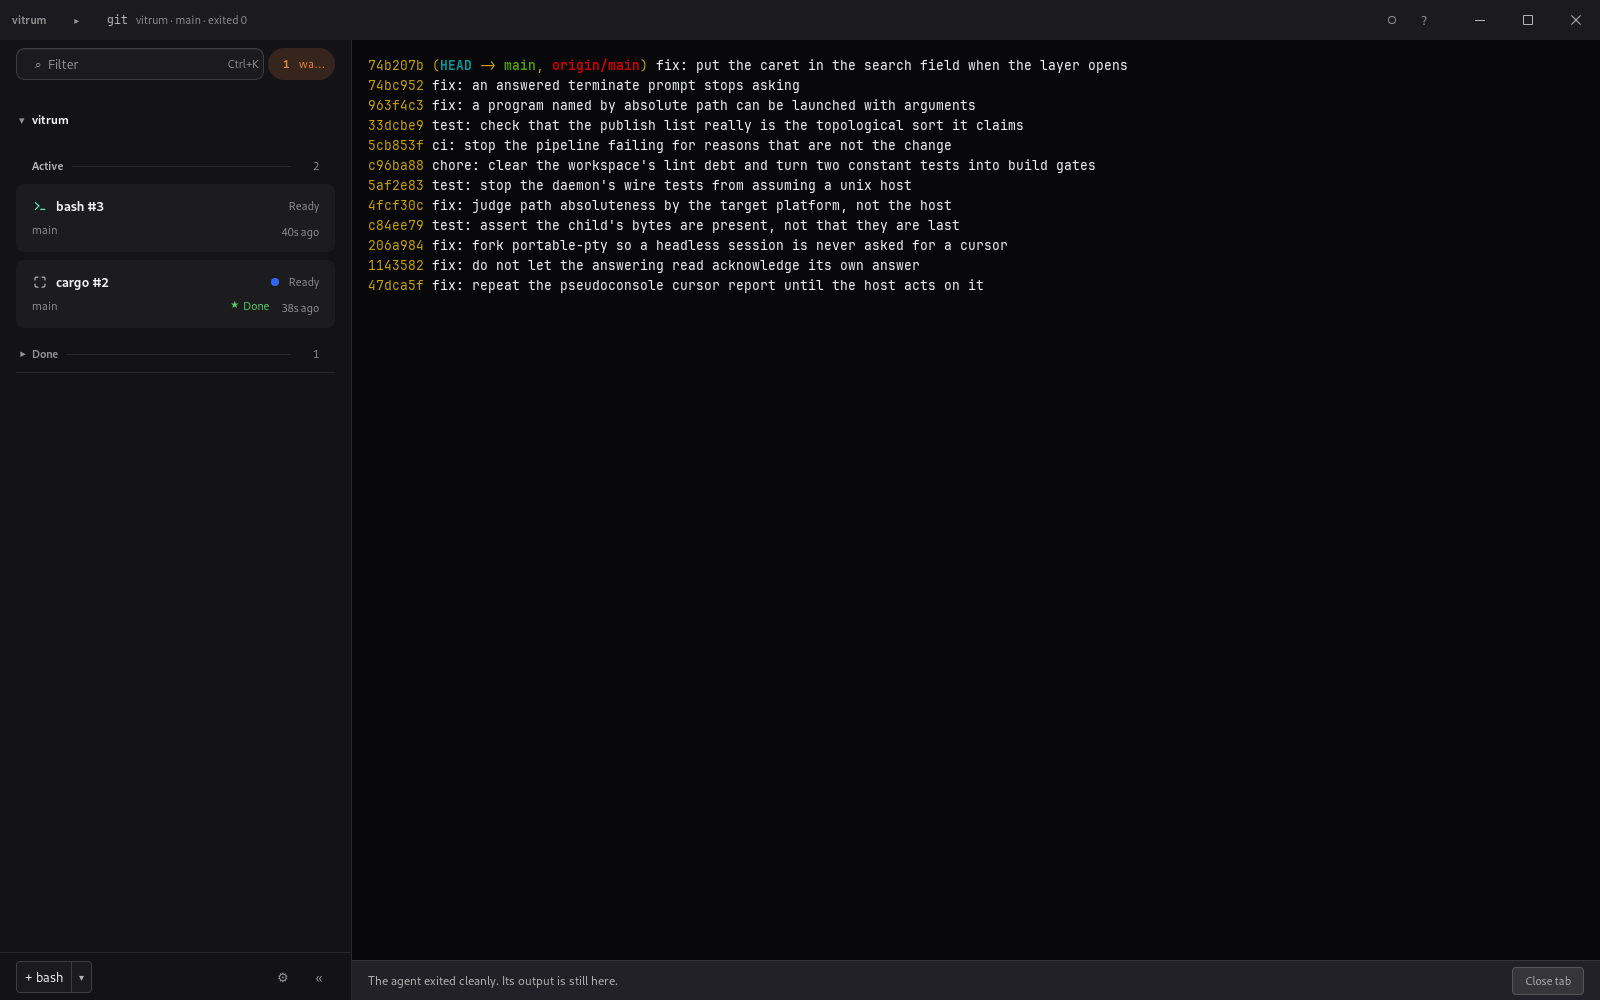
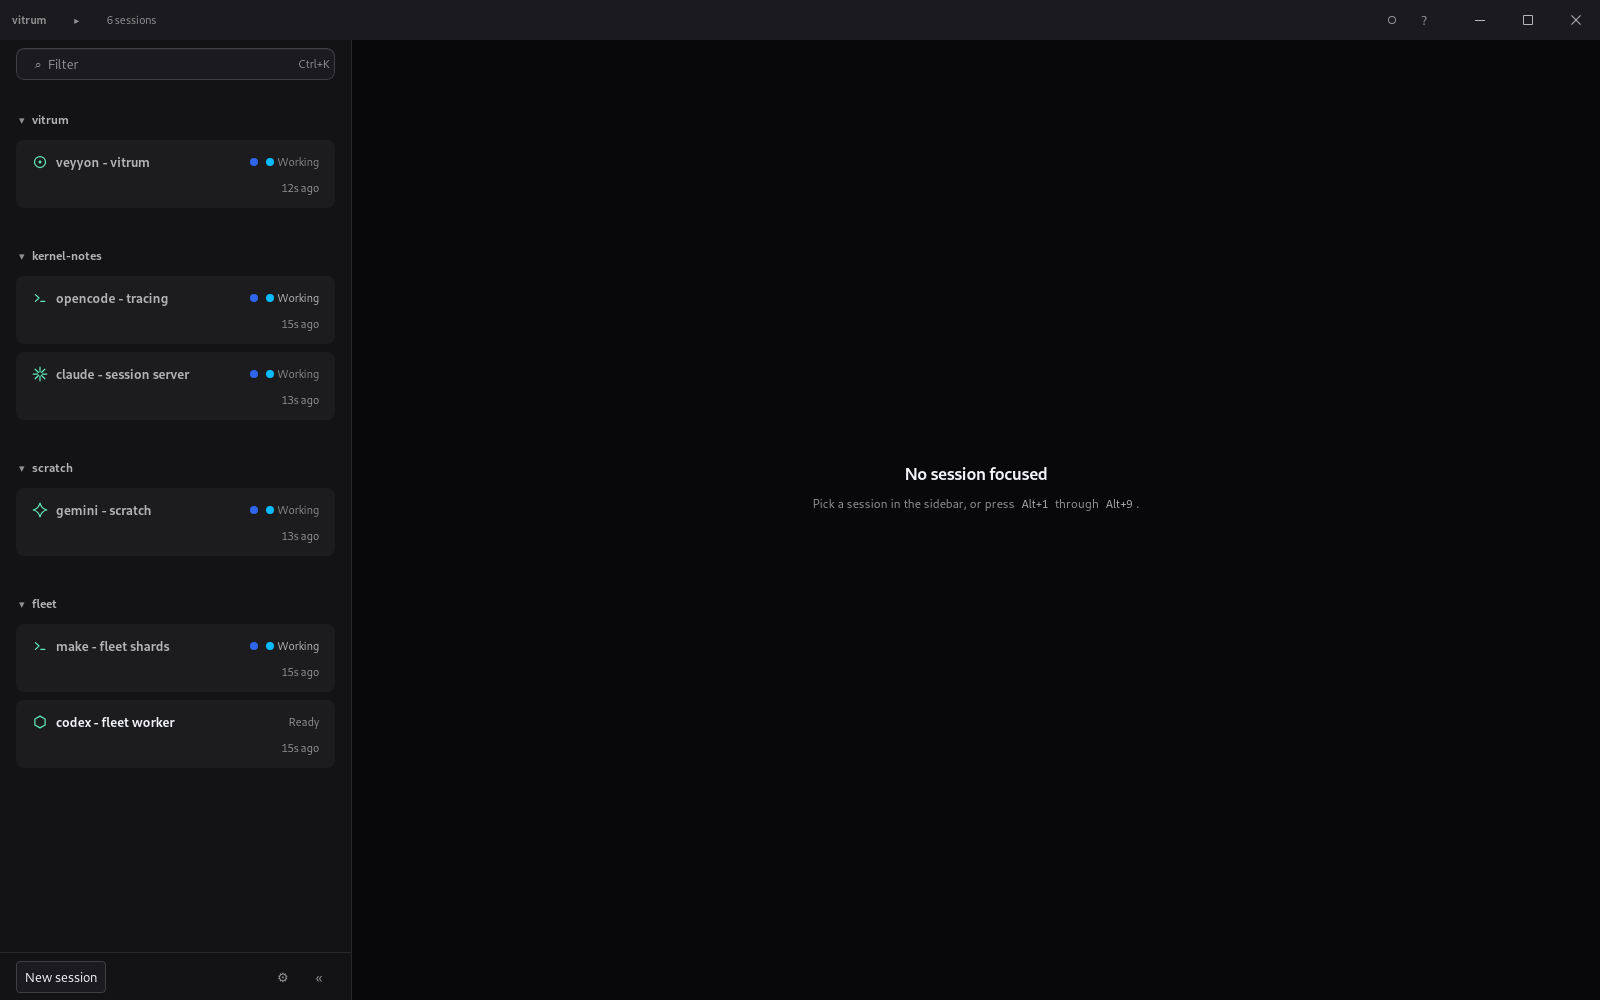
docs: put vitrum wordmark first and refresh the hero screenshot
Lead with the mark and name, then badges and section links, then the
window. The previous hero sat above the badges and showed shell/cargo
panes; the new capture is a local build with a live veyyon session and
several project folders in the sidebar.

diff --git a/README.md b/README.md
@@ -1,6 +1,8 @@
 <p align="center">
-  <img src="assets/screenshots/hero.png" alt="Three sessions in one vitrum window: a finished git log, a cargo run and a shell, with the sidebar showing what each one is doing." width="960" />
+  <img src="assets/logo/vitrum.svg" alt="vitrum" width="72" />
 </p>
+
+<h1 align="center">vitrum</h1>
 
 <p align="center">
   <a href="https://crates.io/crates/vitrum"><img src="https://img.shields.io/crates/v/vitrum?style=flat-square&color=7aa2f7&label=crates.io&labelColor=0a0a0a" alt="vitrum on crates.io" /></a>&nbsp;
@@ -17,6 +19,10 @@
   <strong><a href="#first-run">First run</a></strong> ·
   <strong><a href="CONTRIBUTING.md">Contributing</a></strong> ·
   <strong><a href="SECURITY.md">Security</a></strong>
+</p>
+
+<p align="center">
+  <img src="assets/screenshots/hero.png" alt="vitrum managing several coding-agent sessions at once: a live veyyon pane and a sidebar of sessions across multiple project folders." width="960" />
 </p>
 
 # A terminal for running many coding agents at once
